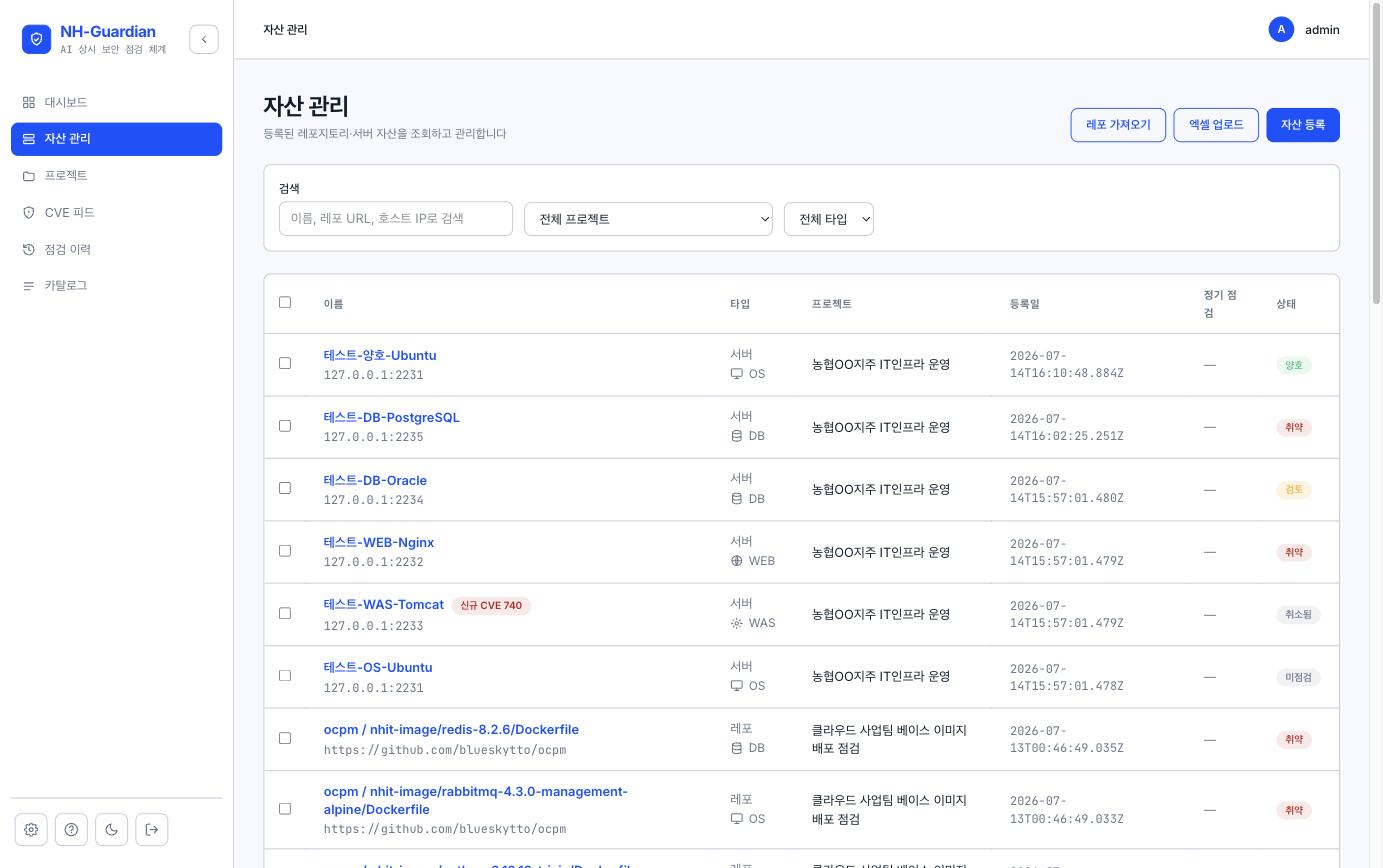
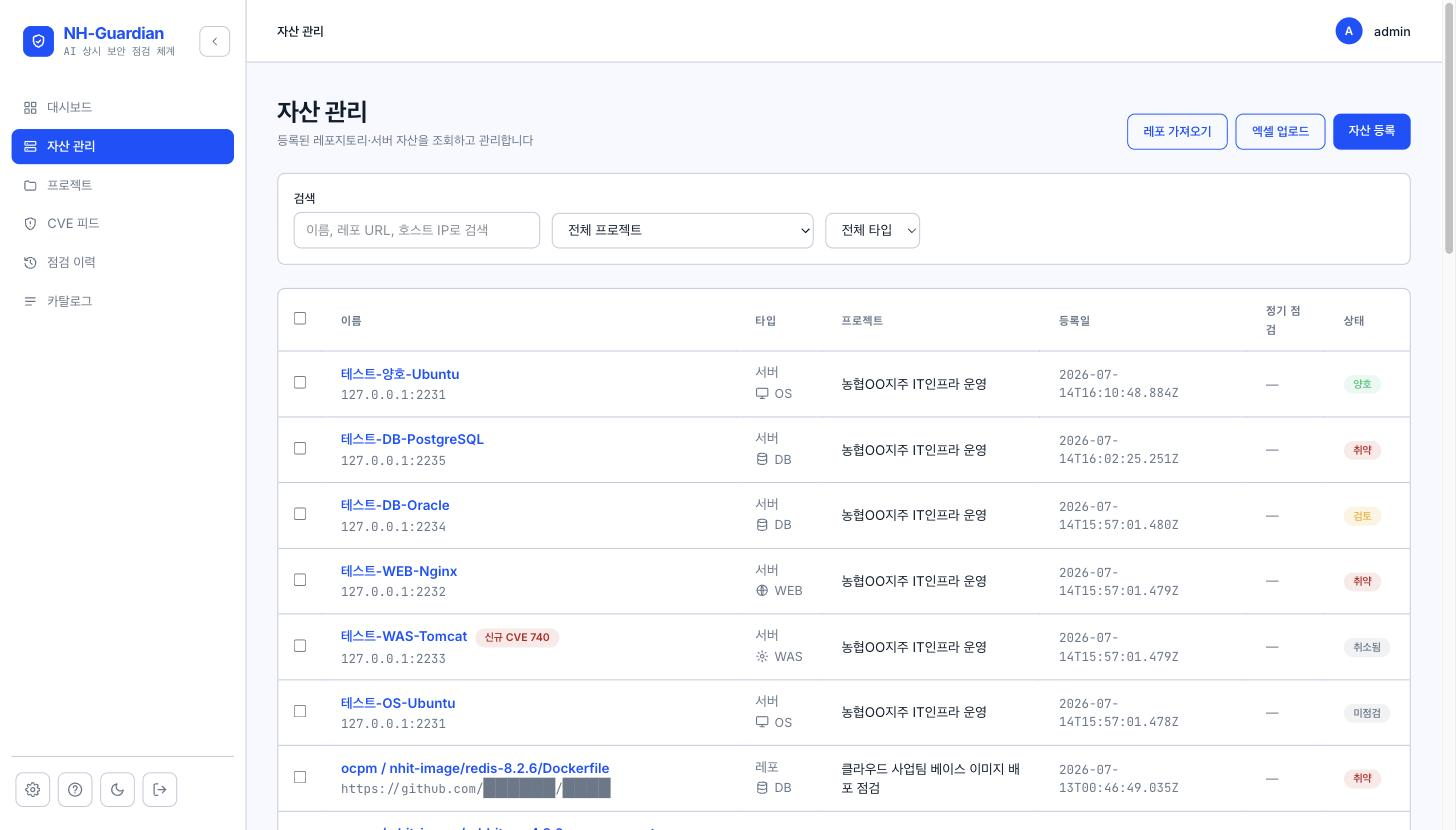
docs: 자산 등록 3경로(수동/레포 가져오기/엑셀) 상세화 + 스크린샷 내 프라이빗 레포 URL 마스킹
- 자산 목록 캡처를 URL 마스킹 버전으로 교체
- 서버 수동 등록 폼, 레포 가져오기(Dockerfile 자동 발견), 엑셀 일괄 업로드 캡처 추가
- 레포 가져오기 흐름(발견→선택→프로젝트 그룹→일괄 점검→정기 추적) 설명 보강

diff --git a/README.md b/README.md
@@ -40,10 +40,21 @@ NH-Guardian은 이 과정 전체를 하나의 플랫폼으로 통합합니다.
 
 ![자산 관리 화면](docs/images/assets.jpg)
 
-- **엑셀 일괄 업로드** — 작성용 템플릿을 내려받아 수십 대 서버를 한 번에 등록 (행별 best-effort 처리)
-- **레포 가져오기** — GitHub 레포 하나에서 여러 Dockerfile을 자동 탐지해 이미지별 자산으로 일괄 등록
-- **중복 자동 방지** — 레포는 정규화 URL, 서버는 IP+포트 조합으로 중복 등록 차단
-- **SSH 자격증명 암호화** — 접속 정보는 AES-256-GCM으로 암호화 저장되며, 화면·로그·AI 입력 어디에도 평문으로 노출되지 않습니다
+자산 등록은 규모와 상황에 맞게 세 가지 경로를 제공합니다.
+
+**① 수동 등록** — 서버는 호스트 IP·SSH 포트·인증 방식(비밀번호/SSH 키)·OS·종류·담당자를, 레포는 GitHub URL을 입력해 한 건씩 등록합니다. SSH 접속 정보는 AES-256-GCM으로 암호화 저장되며, 화면·로그·AI 입력 어디에도 평문으로 노출되지 않습니다.
+
+![자산 등록 — 서버 수동 등록 폼](docs/images/asset-new-server.jpg)
+
+**② 깃헙 레포 링크 등록(레포 가져오기)** — 레포 URL 하나를 입력하고 "발견"을 누르면 NH-Guardian이 레포를 클론해 안에 있는 **모든 Dockerfile을 자동 탐지**합니다. 아래 화면처럼 수십 개의 베이스 이미지 Dockerfile이 목록으로 나오고, 원하는 것만 선택하면 이미지별 개별 자산으로 만들어져 하나의 프로젝트로 묶입니다. 이후 프로젝트 일괄 점검으로 전체 이미지를 한 번에 점검하고, 정기 점검 스케줄을 걸어 두면 등록된 레포 자산이 지속적으로 추적 관리됩니다. 이미 등록된 Dockerfile은 "이미 등록됨" 배지와 소속 프로젝트 링크로 표시되어(중복 등록 차단) 레포에 이미지가 추가될 때마다 재발견으로 새 항목만 골라 넣을 수 있습니다.
+
+![레포 가져오기 — Dockerfile 자동 발견과 선택 등록](docs/images/asset-import-repo.jpg)
+
+**③ 엑셀 일괄 업로드** — 예시 엑셀 템플릿을 내려받아 `repo`/`server` 두 시트에 자산을 채워 올리면 수십 대 서버·레포가 한 번에 등록됩니다. 행 단위 best-effort로 처리되어 일부 행에 오류가 있어도 나머지는 정상 등록됩니다.
+
+![자산 엑셀 일괄 업로드](docs/images/asset-upload-excel.jpg)
+
+공통으로 레포는 정규화 URL(+Dockerfile 경로), 서버는 IP+포트 조합의 중복 자동 차단이 적용됩니다.
 
 ### 3. 자산 상세 허브 — 자산 하나의 모든 것
 